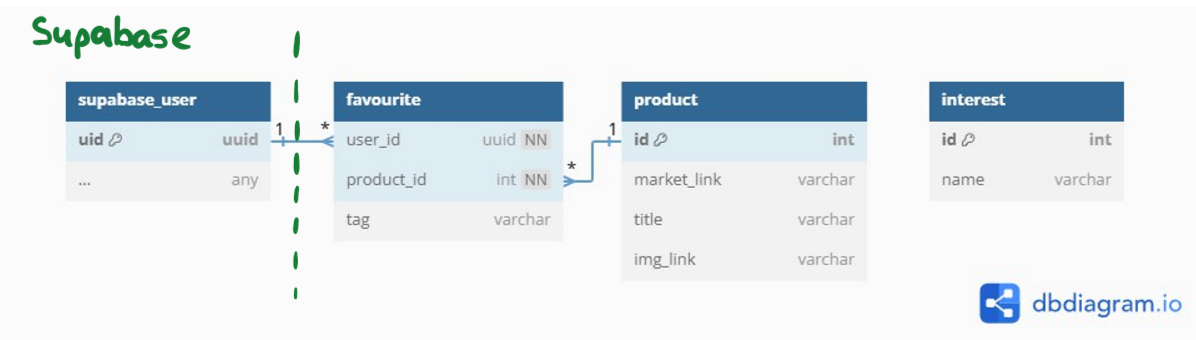
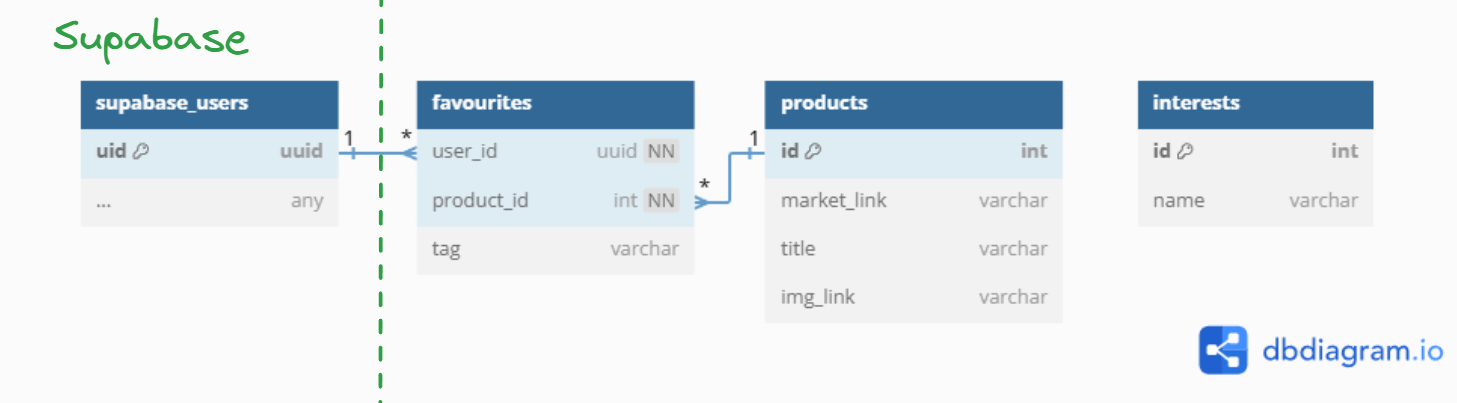
Updated db scheme

diff --git a/README.md b/README.md
@@ -78,10 +78,10 @@ https://github.com/user-attachments/assets/34cdc54b-8fd9-44b5-a215-2182affb0240
 #### Схема базы данных
 ![](images/dbdiagram.png)
 
-* `supabase_user` - неявная таблица Users, хранящаяся в Supabase. От нее _(по крайней мере, на текущий момент)_ нам только требуется User ID для определения избранных товаров пользователя
-* `favourite` - сама таблица избранных товаров. Хранит для пользователя `user_id` его избранный товар `product_id` с опциональным тегом `tag`
-* `product` - таблица товаров. Описываются его название `title`, ссылка на маркетплейс `market_link` и ссылка на его обложку `img_link`
-* `interest` - таблица предлагаемых пользователю интересов. При генерации идей подарков, интересы человека выбираются именно оттуда _(сделал я это намеренно, т.к. если пользователь напишет что-то не то, это может сломать промпт, и LLM вероятно сгаллюционирует)_
+* `supabase_users` - неявная таблица Users, хранящаяся в Supabase. От нее _(по крайней мере, на текущий момент)_ нам только требуется User ID для определения избранных товаров пользователя
+* `favourites` - сама таблица избранных товаров. Хранит для пользователя `user_id` его избранный товар `product_id` с опциональным тегом `tag`
+* `products` - таблица товаров. Описываются его название `title`, ссылка на маркетплейс `market_link` и ссылка на его обложку `img_link`
+* `interests` - таблица предлагаемых пользователю интересов. При генерации идей подарков, интересы человека выбираются именно оттуда _(сделал я это намеренно, т.к. если пользователь напишет что-то не то, это может сломать промпт, и LLM вероятно сгаллюционирует)_
 
 Также предусмотрен следующий _on cascade_: если продукт удаляется, то и связанные с ним избранные товары тоже удаляются.
 _(с пользователем такое не особо выполнимо, т.к. опять же мы подтягиваем его извне)_
